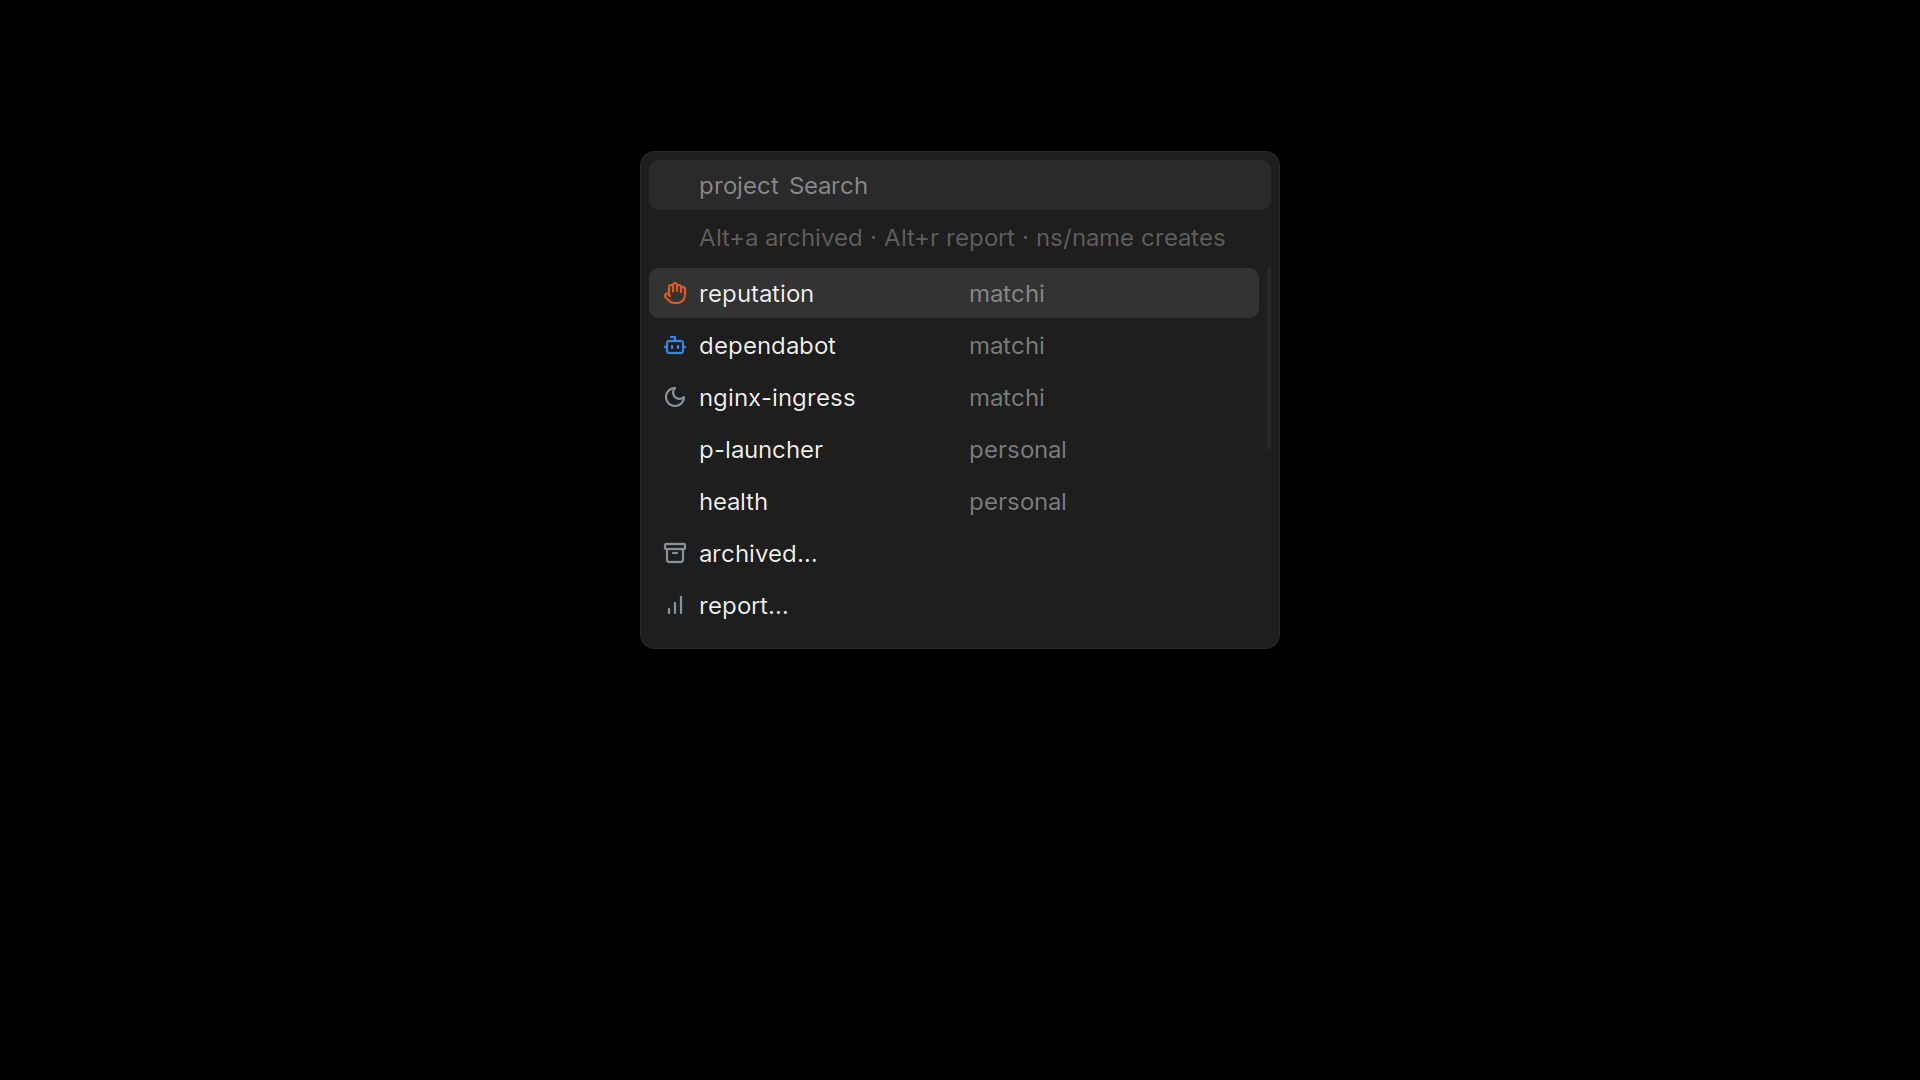
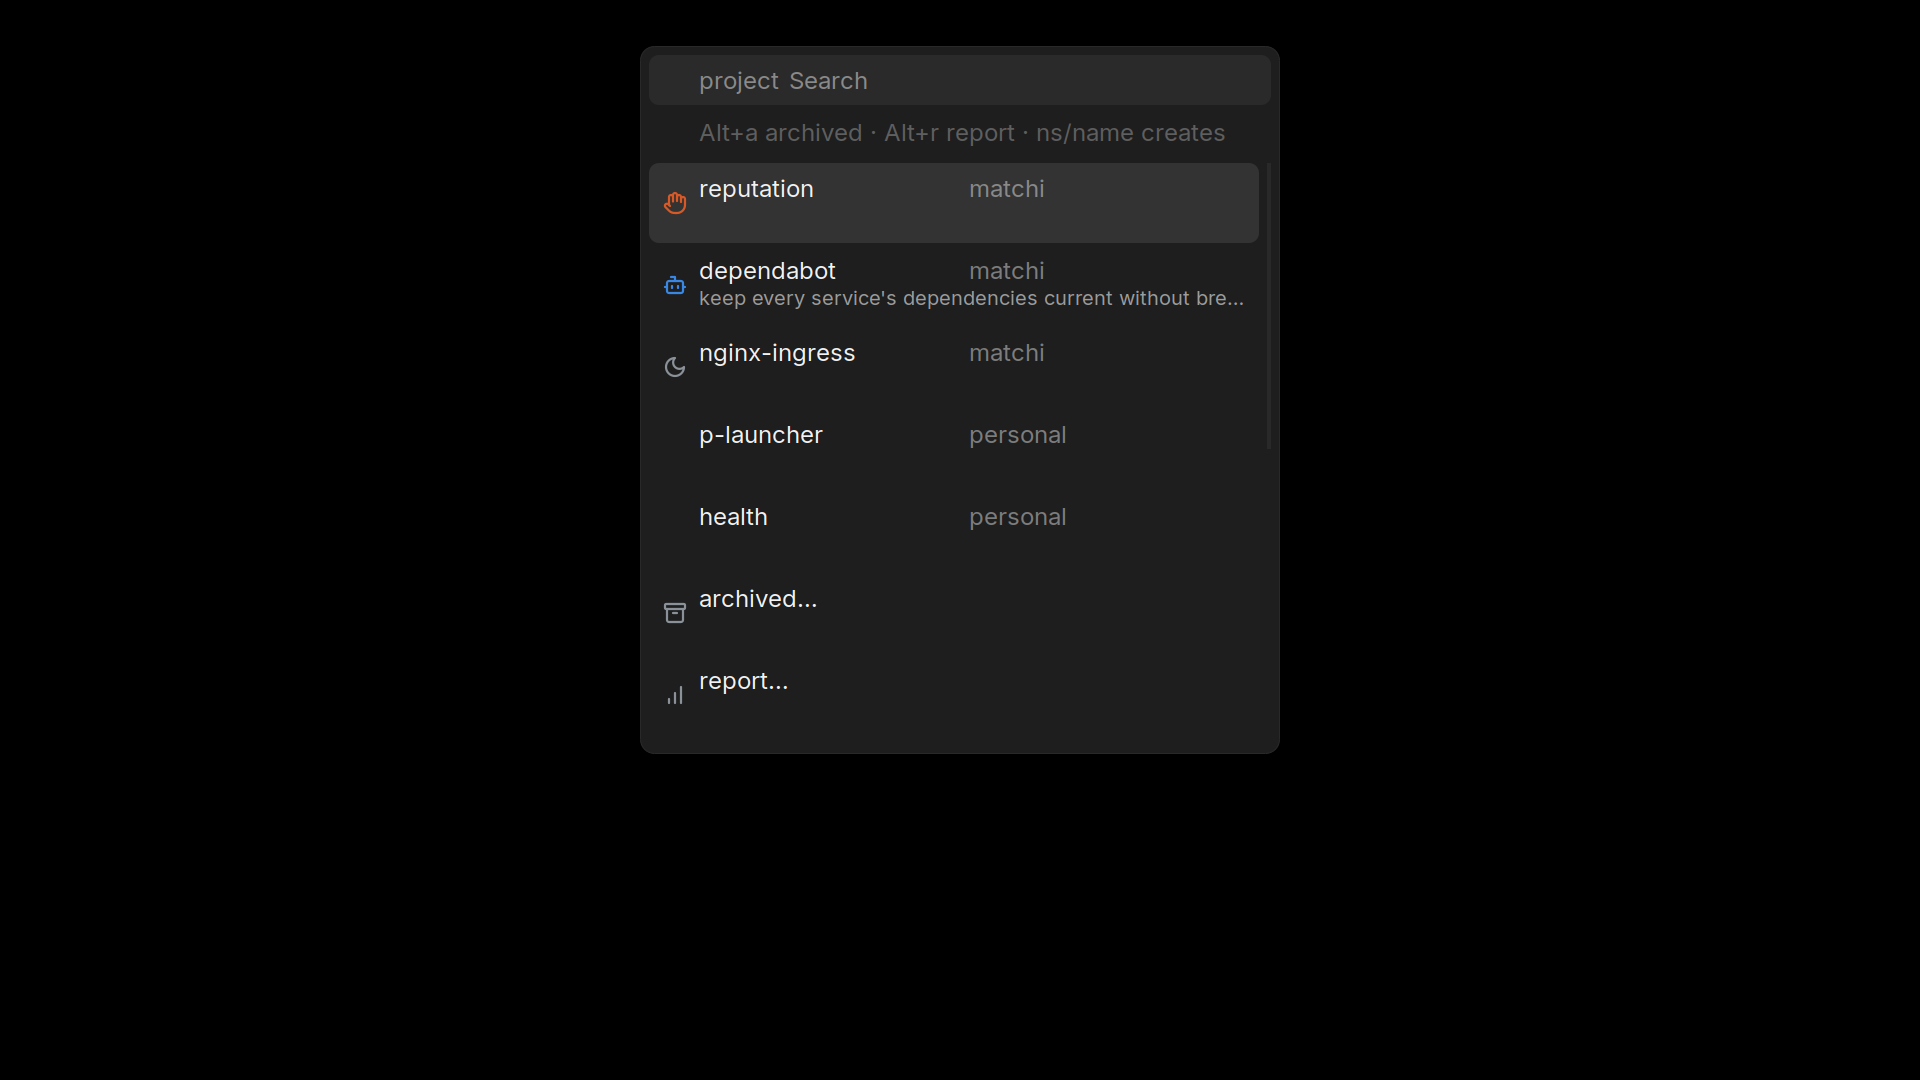
p-launcher: two-line rows only when a description exists

diff --git a/p-launcher/menu.go b/p-launcher/menu.go
@@ -148,6 +148,18 @@ func mainMenuExtra() []string {
 		"-mesg", `<span alpha="60%">Alt+a archived · Alt+r report · ns/name creates</span>`}
 }
 
+// rowHeightArgs makes rows two lines tall when any project carries a
+// description: rofi renders a row's second line only with -eh 2, and the
+// taller rows are not worth it when nothing would fill them.
+func rowHeightArgs(ps []Project) []string {
+	for _, p := range ps {
+		if p.Description != "" {
+			return []string{"-eh", "2"}
+		}
+	}
+	return nil
+}
+
 // parseRofiOut splits rofi's "i|f" output: index (-1 for a typed non-match)
 // and the typed text. Only the first separator splits, so typed text may
 // contain "|".
@@ -198,6 +210,7 @@ func menuMode(s *Store, root, toggleKey, iconDir string, archived bool) error {
 	if archived {
 		prompt, extra = "archived / postponed", nil
 	}
+	extra = append(extra, rowHeightArgs(ps)...)
 	out, key, cancelled, err := runRofi(prompt, toggleKey, rofiInput(rows, icons), extra...)
 	if err != nil || cancelled {
 		return err

diff --git a/p-launcher/golden_test.go b/p-launcher/golden_test.go
@@ -159,7 +159,7 @@ func TestGoldenRofiMenu(t *testing.T) {
 	open := map[string]bool{"p:m/reputation": true, "p:m/dependabot": true, "p:m/nginx-ingress": true}
 	rows := Rows(ps, open, true)
 	// the same arguments menuMode uses for the main list, hint line included
-	cmd := exec.Command("rofi", append(rofiArgs("project", "F5"), mainMenuExtra()...)...)
+	cmd := exec.Command("rofi", append(append(rofiArgs("project", "F5"), mainMenuExtra()...), rowHeightArgs(ps)...)...)
 	cmd.Env = append(os.Environ(), "DISPLAY="+display)
 	cmd.Stdin = bytes.NewReader(rofiInput(rows, icons))
 	if err := cmd.Start(); err != nil {

diff --git a/p-launcher/verbs_test.go b/p-launcher/verbs_test.go
@@ -106,6 +106,15 @@ func verbTexts(vs []verbRow) []string {
 	return out
 }
 
+func TestRowHeightArgs(t *testing.T) {
+	if got := rowHeightArgs([]Project{{Path: "m/a"}, {Path: "m/b"}}); got != nil {
+		t.Fatalf("no descriptions must keep single-line rows: %v", got)
+	}
+	if got := rowHeightArgs([]Project{{Path: "m/a"}, {Path: "m/b", Description: "x"}}); !reflect.DeepEqual(got, []string{"-eh", "2"}) {
+		t.Fatalf("%v", got)
+	}
+}
+
 func TestCreatePathFromTyped(t *testing.T) {
 	cases := map[string]string{
 		"m/new":        "m/new",
